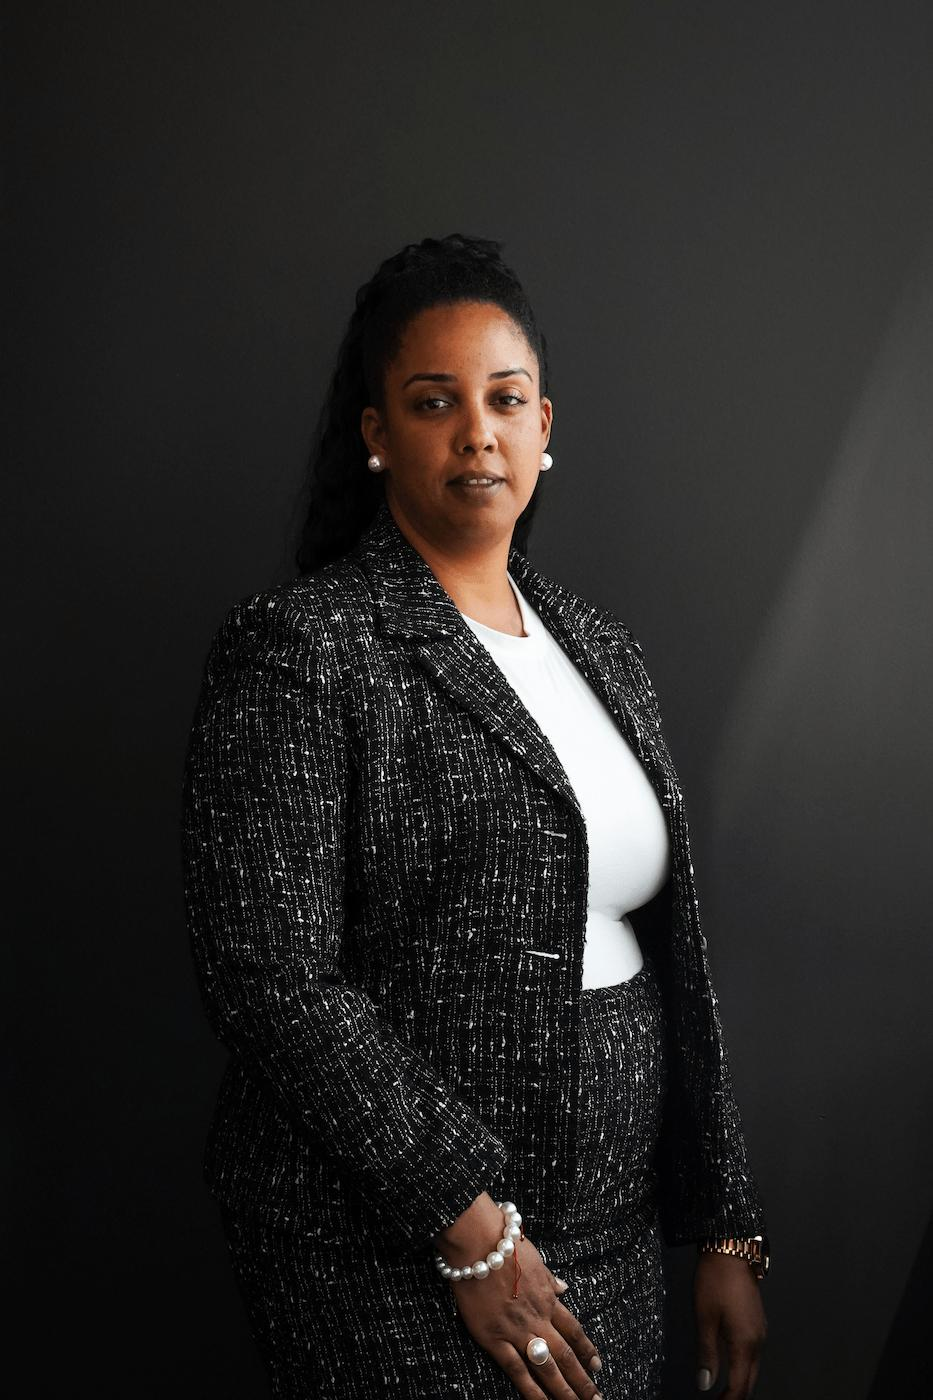
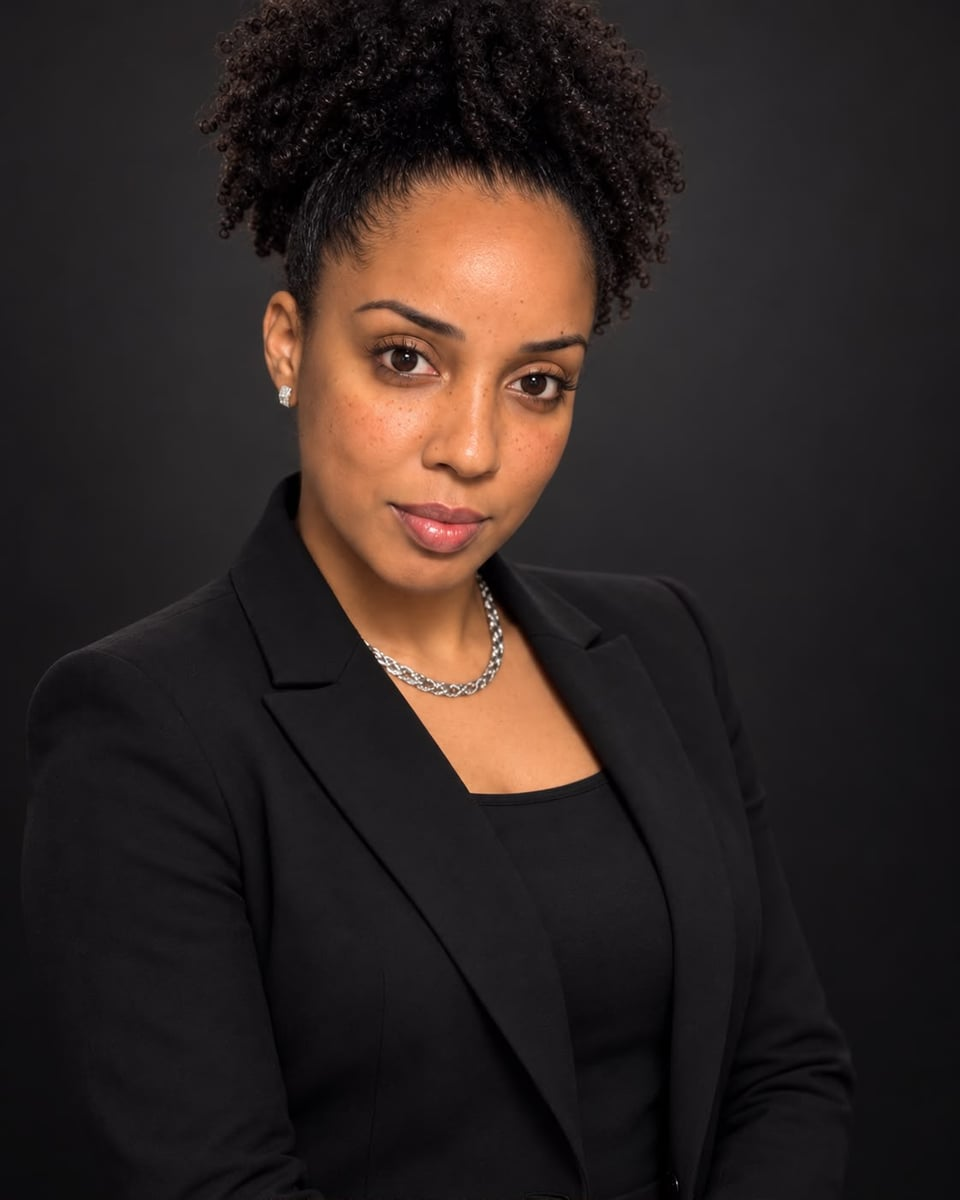
Update team profiles, WhatsApp colors and investment return navigation (#26)

diff --git a/tests/e2e/investment-return.spec.ts b/tests/e2e/investment-return.spec.ts
@@ -1,0 +1,29 @@
+import { expect, test } from '@playwright/test';
+
+for (const prefix of ['', '/es']) {
+  test(`browser Back from ${prefix}/investments returns to the home investment section`, async ({ page }) => {
+    await page.goto(`${prefix}/team`);
+    await page.goto(prefix || '/');
+
+    // Enter from the hero, away from the intended return position.
+    await page.locator(`#home a[href="${prefix}/investments"]`).first().click();
+    await expect(page).toHaveURL(new RegExp(`${prefix}/investments$`));
+    await expect(page.locator('[data-est-prev]')).toBeDisabled();
+
+    const home = `${prefix || '/'}#investments`;
+    const section = page.locator('[data-investments]');
+    await page.goBack();
+    await expect(page).toHaveURL(new RegExp(`${home}$`));
+    await expect.poll(async () => Math.abs((await section.boundingBox())?.y ?? Infinity)).toBeLessThan(5);
+
+    await page.goForward();
+    await expect(page).toHaveURL(new RegExp(`${prefix}/investments$`));
+    await page.goBack();
+    await expect(page).toHaveURL(new RegExp(`${home}$`));
+    await expect.poll(async () => Math.abs((await section.boundingBox())?.y ?? Infinity)).toBeLessThan(5);
+
+    // Returning to home must not insert another history entry.
+    await page.goBack();
+    await expect(page).toHaveURL(new RegExp(`${prefix}/team$`));
+  });
+}

diff --git a/src/scripts/modules/investmentReturn.ts b/src/scripts/modules/investmentReturn.ts
@@ -1,0 +1,26 @@
+import type Lenis from 'lenis';
+import { $, $$ } from '../utils';
+
+/** Save the homepage's investment section as the browser's Back destination. */
+export function initInvestmentReturn(): void {
+  const section = $<HTMLElement>('[data-investments]');
+  const destination = section?.dataset.investmentsUrl;
+  if (!section || !destination) return;
+
+  $$<HTMLAnchorElement>(`a[href="${destination}"], a[href^="${destination}#"]`).forEach((link) => {
+    link.addEventListener('click', (event) => {
+      if (event.defaultPrevented || event.button !== 0 || event.metaKey || event.ctrlKey ||
+          event.shiftKey || event.altKey || link.target === '_blank' || link.hasAttribute('download')) return;
+
+      // Replace the existing home entry, so Back/Forward keep their normal order.
+      const returnUrl = new URL(window.location.href);
+      returnUrl.hash = 'investments';
+      window.history.replaceState(window.history.state, '', returnUrl);
+
+      // Native history restores scroll position, including when using bfcache.
+      const lenis = (window as unknown as { lenis?: Lenis }).lenis;
+      if (lenis) lenis.scrollTo(section, { immediate: true });
+      else section.scrollIntoView({ behavior: 'instant', block: 'start' });
+    });
+  });
+}

diff --git a/src/scripts/main.ts b/src/scripts/main.ts
@@ -17,11 +17,13 @@ import { initTechCards } from './modules/techCards';
 import { initContactForm, initInvestmentDialog } from './modules/forms';
 import { initEstimate } from './modules/estimate';
 import { initEstimateSuccess } from './modules/estimateSuccess';
+import { initInvestmentReturn } from './modules/investmentReturn';
 
 gsap.registerPlugin(ScrollTrigger, SplitText);
 
 function boot(): void {
   initSmoothScroll();
+  initInvestmentReturn();
   initHeader();
   initHoverLinks();
   initCover();
